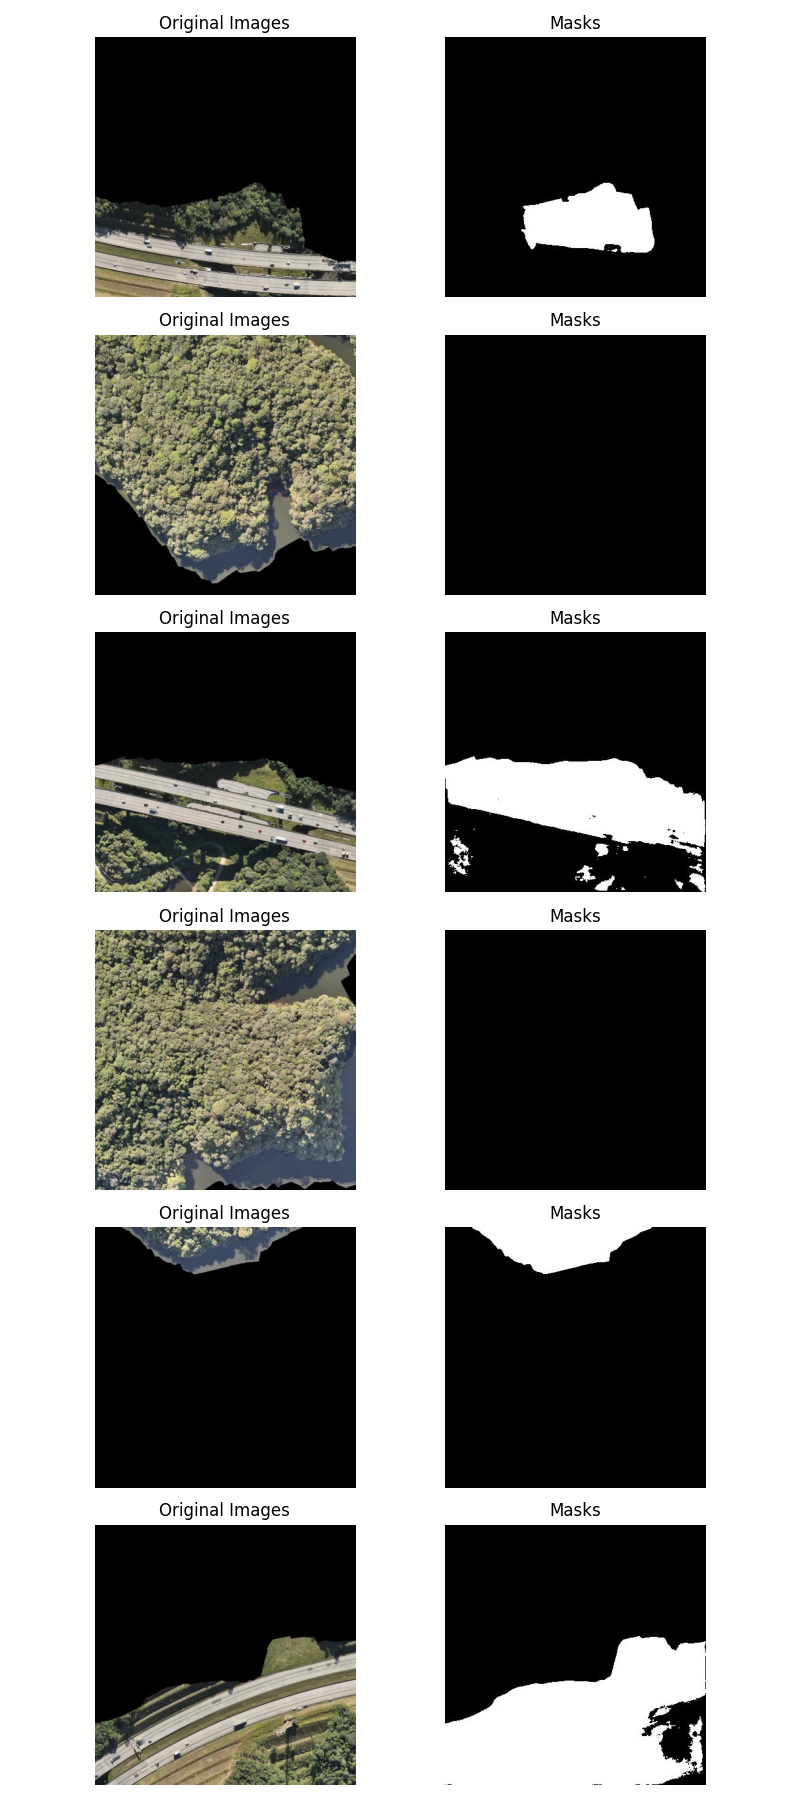
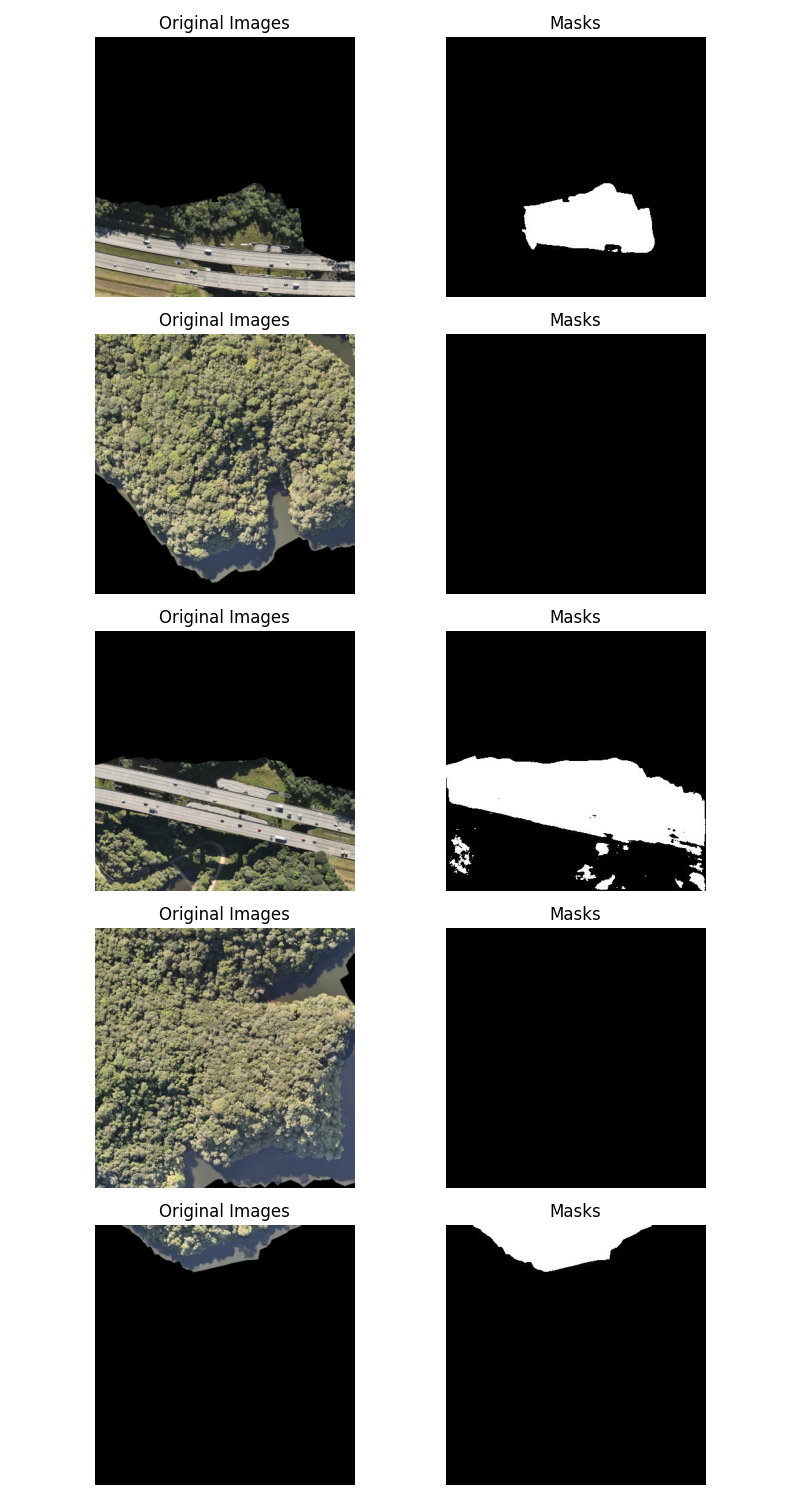
Changed figure

diff --git a/mymodels/utils.py b/mymodels/utils.py
@@ -33,7 +33,7 @@ def plot_images_with_masks(original_folder, mask_folder, model_name):
     mask_images = os.listdir(mask_folder)
     
     # Set the number of images to plot
-    num_images = 6
+    num_images = 5
     #min(len(original_images), len(mask_images))
     
     # Create a figure with subplots
